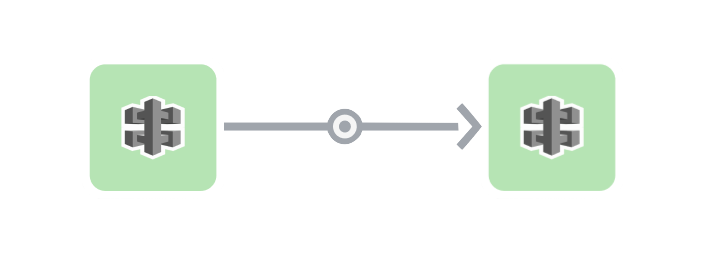
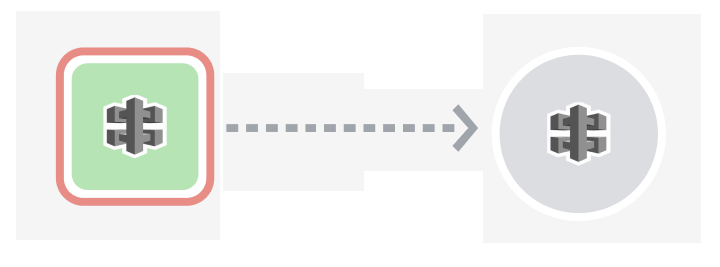
indirect relation

Changed region(s): [[0.0611, 0.1498, 0.9167, 0.809]]

diff --git a/use/concepts/relations.md b/use/concepts/relations.md
@@ -15,11 +15,11 @@ Relations in StackState can be either direct or indirect. The type of relation i
 * **Direct relations** link two components that have a direct connection to each other. 
 * **Indirect relations** link two components that are connected together via a path of invisible components.
 
-| Relation type                                         | Description                                                                                                                                                                                                                                                                                                                                                                                                                    |
-|:------------------------------------------------------|:-------------------------------------------------------------------------------------------------------------------------------------------------------------------------------------------------------------------------------------------------------------------------------------------------------------------------------------------------------------------------------------------------------------------------------|
-| ![](/.gitbook/assets/v50_relation_comp_comp.png)      | A **direct relation** between two components is indicated by a solid line. The direction of the arrowhead shows the direction of the dependency.                                                                                                                                                                                                                                                                               |
-| ![](/.gitbook/assets/relation_indirect_comp_comp.svg) | An **indirect relation** between two components is shown as a dashed line.  The direction of the arrowhead shows the direction of the dependency. Select an indirect relation to view the path between the components in the right panel **Selection details** tab.                                                                                                                                                            |
-| ![](/.gitbook/assets/relation_group_comp.svg)         | Both a **direct relation** and an **indirect relation** between a component and a component group will be shown as a combination of a solid and a dashed line. **This type of relation could contain a combination of direct, indirect and/or no relations to one or more components in the group.** Select a grouped relation to display full details of the included relations in the right panel **Selection details** tab. |
+| Relation type                                                  | Description                                                                                                                                                                                                                                                                                                                                                                                                                    |
+|:---------------------------------------------------------------|:-------------------------------------------------------------------------------------------------------------------------------------------------------------------------------------------------------------------------------------------------------------------------------------------------------------------------------------------------------------------------------------------------------------------------------|
+| ![](/.gitbook/assets/v50_relation_comp_comp.png)               | A **direct relation** between two components is indicated by a solid line. The direction of the arrowhead shows the direction of the dependency.                                                                                                                                                                                                                                                                               |
+| ![](/.gitbook/assets/v50_indirect_relation_comp_compgroup.png) | An **indirect relation** between two components is shown as a dashed line.  The direction of the arrowhead shows the direction of the dependency. Select an indirect relation to view the path between the components in the right panel **Selection details** tab.                                                                                                                                                            |
+| ![](/.gitbook/assets/relation_group_comp.svg)                  | Both a **direct relation** and an **indirect relation** between a component and a component group will be shown as a combination of a solid and a dashed line. **This type of relation could contain a combination of direct, indirect and/or no relations to one or more components in the group.** Select a grouped relation to display full details of the included relations in the right panel **Selection details** tab. |
 
 Select a relation to display detailed information about it in the right panel **Selection details** tab. 
 
